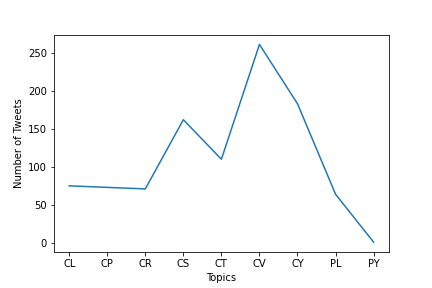
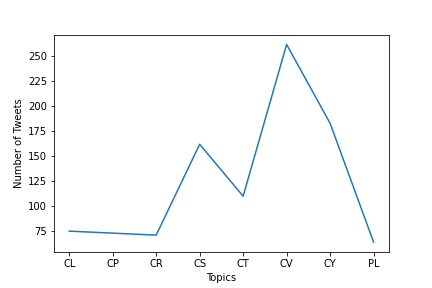
grpahs

diff --git a/598-Project/graph.py b/598-Project/graph.py
@@ -1,0 +1,19 @@
+d = {
+  "CV": 262,
+  "CY": 183,
+  "CS": 162,
+  "CT": 110,
+  "CL": 75,
+  "CP": 73,
+  "CR": 71,
+  "PL": 64
+}
+import matplotlib.pyplot as plt
+lists = sorted(d.items()) # sorted by key, return a list of tuples
+
+x, y = zip(*lists) # unpack a list of pairs into two tuples
+
+plt.plot(x, y)
+plt.xlabel("Topics")
+plt.ylabel("Number of Tweets")
+plt.savefig('counts.png')
